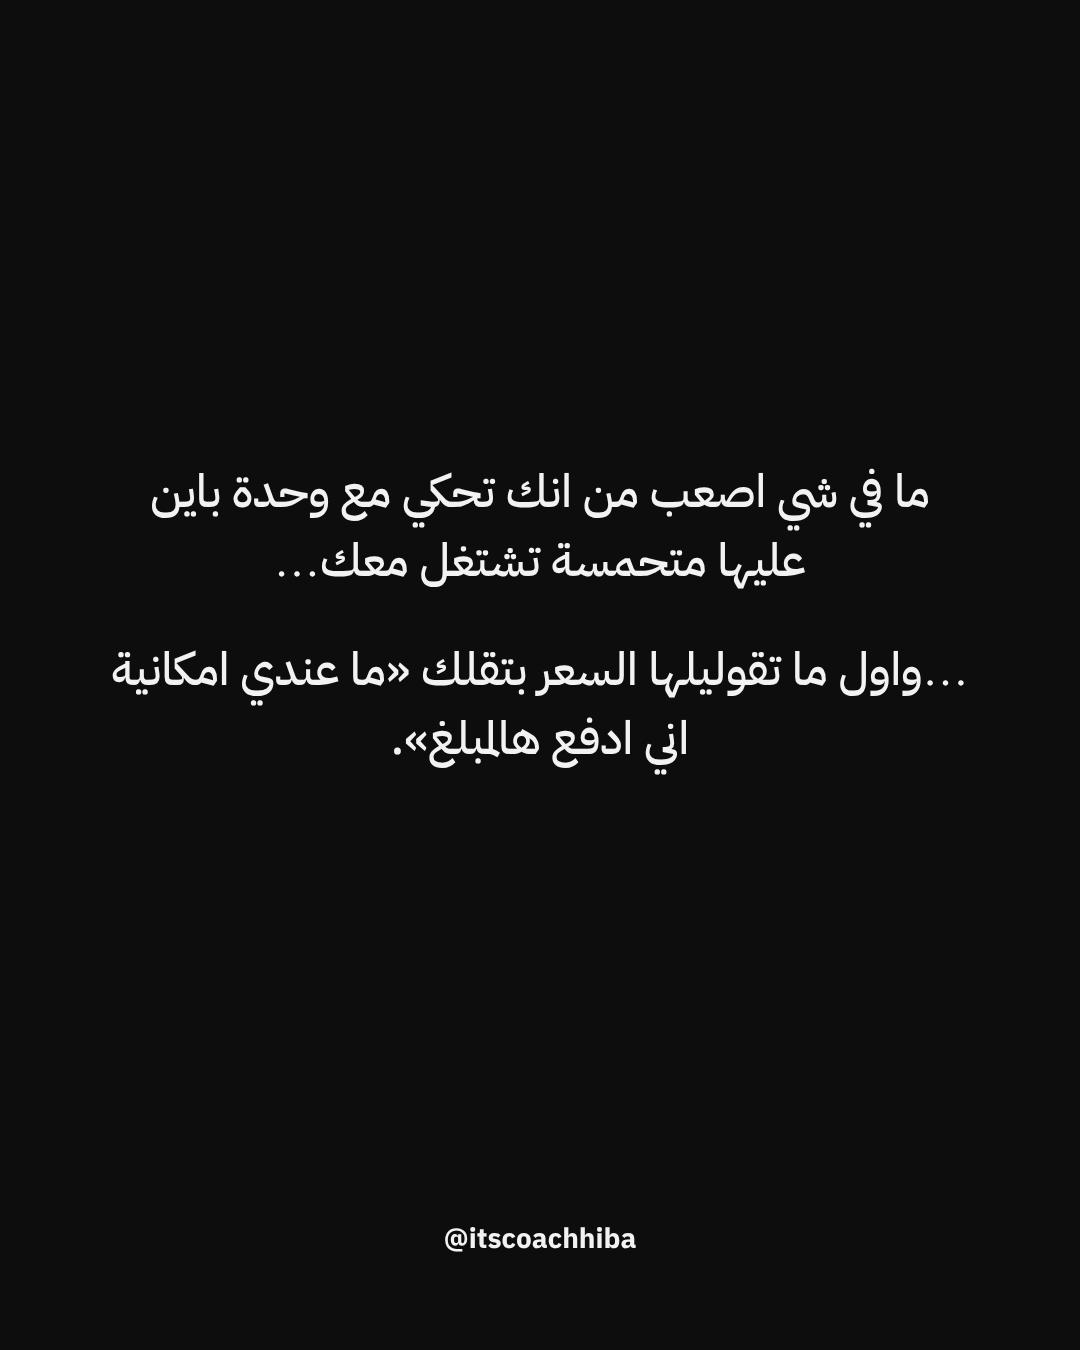
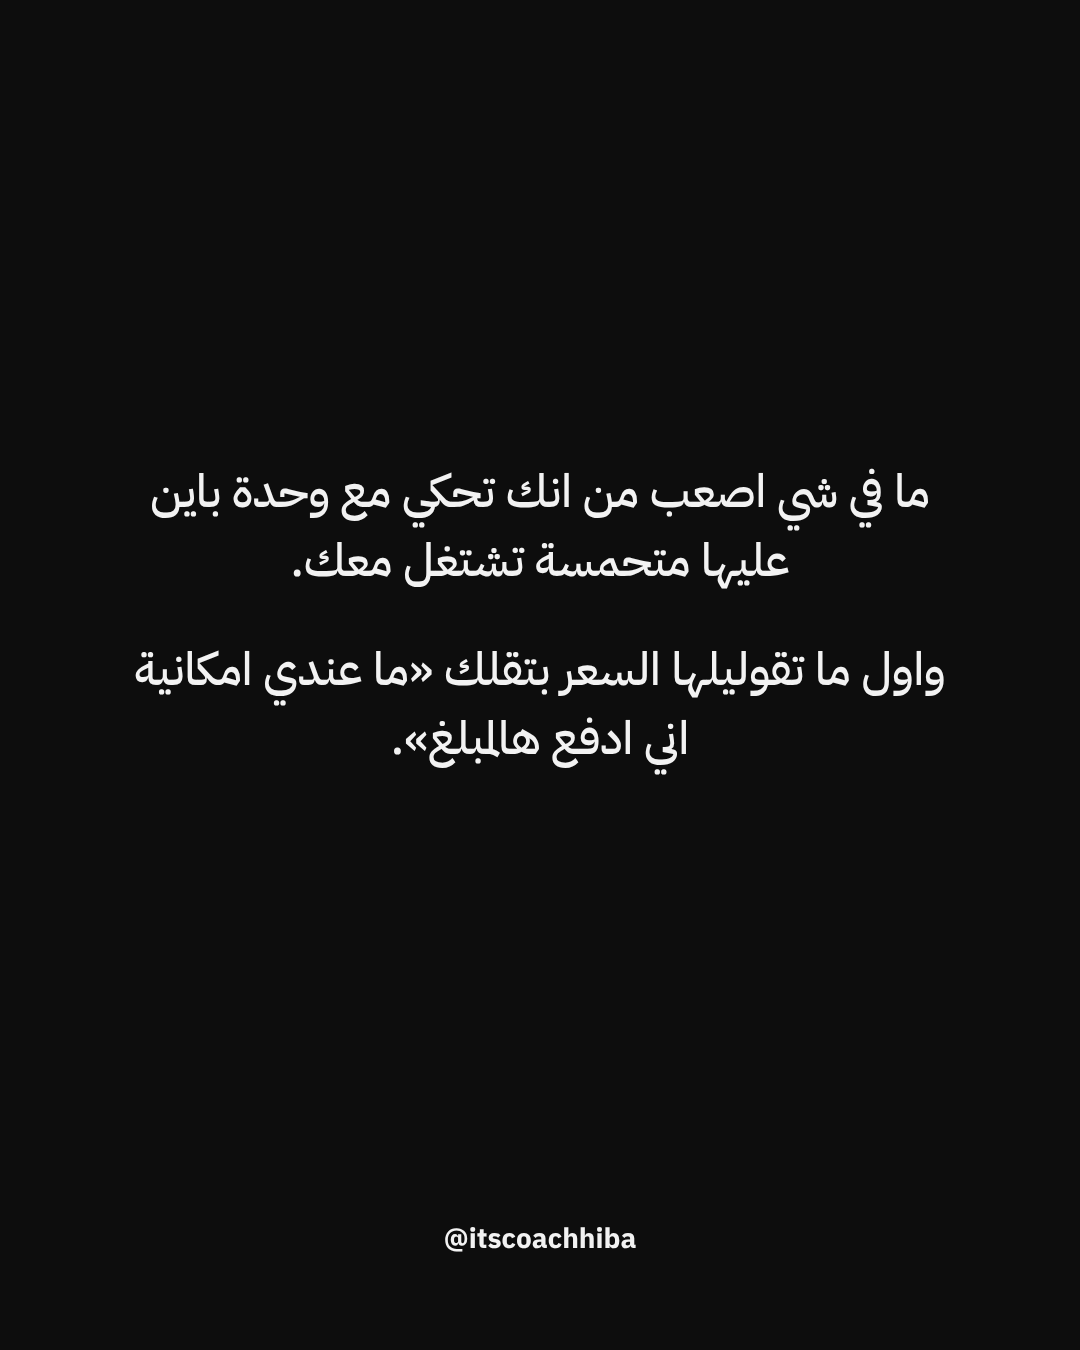
Carousel 20: remove extra dots
Claude-Session: https://claude.ai/code/session_01Q3F4hydPDiJyjfKYRyCC3U

Changed region(s): [[0.0917, 0.4667, 0.8861, 0.5289], [0.275, 0.4044, 0.7639, 0.4356]]

diff --git a/carousels/20-cant-afford-it-messaging/carousel.html b/carousels/20-cant-afford-it-messaging/carousel.html
@@ -12,4 +12,4 @@
 .txt b{font-weight:700}
 .txt em{font-style:normal;color:#F2531E;font-weight:700}
 .h{position:absolute;bottom:90px;left:0;right:0;text-align:center;font-weight:700;font-size:28px;color:#f2f2f2;direction:ltr}</style></head><body><section class="slide cover"><img src="cover.jpg"><div class="shade"></div>
-<h1>ليش العملاء اللي بيجوكي دايما بيقولولك <span>«سعرك غالي عليي»</span>؟</h1></section><section class="slide txt"><div class="box"><p>ما في شي اصعب من انك تحكي مع وحدة باين عليها متحمسة تشتغل معك…</p><p>…واول ما تقوليلها السعر بتقلك «ما عندي امكانية اني ادفع هالمبلغ».</p></div><div class="h">@itscoachhiba</div></section><section class="slide txt"><div class="box"><p>اذا صارت مرة او مرتين… طبيعي.</p><p>بس اذا صارت كل شوي… بتبلشي تقنعي حالك انو لازم تنزلي سعرك.</p><p>بس لاحظتي انك حتى لما بتنزليه… <em>بيضلوا ما يشتروا؟</em></p><p><b>وهاد السبب.</b></p></div><div class="h">@itscoachhiba</div></section><section class="slide txt"><div class="box"><p>انك تجذبي ناس ما بيقدروا يستثمروا مش مشكلة بسعرك.</p><p>هي فعليا مشكلة <em>بالـ messaging</em> تبعك بمحتواكي وببزنسك.</p><p>والرسالة الغلط بتجيبلك العميلات الغلط.</p></div><div class="h">@itscoachhiba</div></section><section class="slide txt"><div class="box"><p>يعني ممكن تكوني عم تعملي محتوى للناس اللي عرضك <em>بيقدر</em> يساعدهم…</p><p>بدل الناس اللي عرضك <em>انعمل الهم</em>.</p><p>والفرق بين الاتنين كبير كتير.</p></div><div class="h">@itscoachhiba</div></section><section class="slide txt"><div class="box"><p>اكيد انتي خبيرة وبتقدري تساعدي ناس كتير بمستويات مختلفة.</p><p>بس اذا عرضك مصمم لوحدة صار عندها بزنس ودخل لازم محتواك يحكي <em>معها هي وبس</em>.</p></div><div class="h">@itscoachhiba</div></section><section class="slide txt"><div class="box"><p>اول ما تفكري «ما بدي خسر حدا»… خسرتي.</p><p>لانو رسالتك بتصير تحكي مع <em>الكل</em>:</p><p>اللي لسا مبلشة. اللي صار عندها خبرة. اللي جاهزة تستثمر. واللي لا.</p></div><div class="h">@itscoachhiba</div></section><section class="slide txt"><div class="box"><p>هاد اللي ما بتنتبهله اغلب الاشخاص اللي عندهم خدمات او منتجات رقمية…</p><p>العميلة اللي بدك ياها مشاكلها واولوياتها واهدافها <em>غير تماما</em> عن وحدة لسا عم تبلش.</p><p>واذا رسالتك ما بتحكي عن <em>واقعها هي</em> رح تضلي تجذبي الناس الغلط.</p></div><div class="h">@itscoachhiba</div></section><section class="slide txt"><div class="box"><p>الرسالة الواضحة والـ messaging الصح هي <em>اول شي</em> لازم تبلشي تغيريه.</p><p>واذا بدك تعرفي كيف بالزبط بتقدري تبني براند شخصي قوي وتزيدي دخلك</p><p>علقي بكلمة <em>«مكالمة»</em> لتحجزي مكالمة استشارية مجانية.</p></div><div class="h">@itscoachhiba</div></section></body></html>
+<h1>ليش العملاء اللي بيجوكي دايما بيقولولك <span>«سعرك غالي عليي»</span>؟</h1></section><section class="slide txt"><div class="box"><p>ما في شي اصعب من انك تحكي مع وحدة باين عليها متحمسة تشتغل معك.</p><p>واول ما تقوليلها السعر بتقلك «ما عندي امكانية اني ادفع هالمبلغ».</p></div><div class="h">@itscoachhiba</div></section><section class="slide txt"><div class="box"><p>اذا صارت مرة او مرتين طبيعي.</p><p>بس اذا صارت كل شوي بتبلشي تقنعي حالك انو لازم تنزلي سعرك.</p><p>بس لاحظتي انك حتى لما بتنزليه <em>بيضلوا ما يشتروا؟</em></p><p><b>وهاد السبب.</b></p></div><div class="h">@itscoachhiba</div></section><section class="slide txt"><div class="box"><p>انك تجذبي ناس ما بيقدروا يستثمروا مش مشكلة بسعرك.</p><p>هي فعليا مشكلة <em>بالـ messaging</em> تبعك بمحتواكي وببزنسك.</p><p>والرسالة الغلط بتجيبلك العميلات الغلط.</p></div><div class="h">@itscoachhiba</div></section><section class="slide txt"><div class="box"><p>يعني ممكن تكوني عم تعملي محتوى للناس اللي عرضك <em>بيقدر</em> يساعدهم.</p><p>بدل الناس اللي عرضك <em>انعمل الهم</em>.</p><p>والفرق بين الاتنين كبير كتير.</p></div><div class="h">@itscoachhiba</div></section><section class="slide txt"><div class="box"><p>اكيد انتي خبيرة وبتقدري تساعدي ناس كتير بمستويات مختلفة.</p><p>بس اذا عرضك مصمم لوحدة صار عندها بزنس ودخل لازم محتواك يحكي <em>معها هي وبس</em>.</p></div><div class="h">@itscoachhiba</div></section><section class="slide txt"><div class="box"><p>اول ما تفكري «ما بدي خسر حدا» خسرتي.</p><p>لانو رسالتك بتصير تحكي مع <em>الكل</em>:</p><p>اللي لسا مبلشة. اللي صار عندها خبرة. اللي جاهزة تستثمر. واللي لا.</p></div><div class="h">@itscoachhiba</div></section><section class="slide txt"><div class="box"><p>هاد اللي ما بتنتبهله اغلب الاشخاص اللي عندهم خدمات او منتجات رقمية.</p><p>العميلة اللي بدك ياها مشاكلها واولوياتها واهدافها <em>غير تماما</em> عن وحدة لسا عم تبلش.</p><p>واذا رسالتك ما بتحكي عن <em>واقعها هي</em> رح تضلي تجذبي الناس الغلط.</p></div><div class="h">@itscoachhiba</div></section><section class="slide txt"><div class="box"><p>الرسالة الواضحة والـ messaging الصح هي <em>اول شي</em> لازم تبلشي تغيريه.</p><p>واذا بدك تعرفي كيف بالزبط بتقدري تبني براند شخصي قوي وتزيدي دخلك</p><p>علقي بكلمة <em>«مكالمة»</em> لتحجزي مكالمة استشارية مجانية.</p></div><div class="h">@itscoachhiba</div></section></body></html>

diff --git a/carousels/20-cant-afford-it-messaging/build.py b/carousels/20-cant-afford-it-messaging/build.py
@@ -33,7 +33,12 @@ slides = [
 import re
 def clean(t):
     t = re.sub("[أإآ]", "ا", t)
-    return t.replace("،", "").replace(", ", " ").replace(",", "")
+    t = t.replace("،", "").replace(", ", " ").replace(",", "")
+    t = re.sub(r"^…", "", t)
+    t = re.sub(r"…(</em>)?$", r".\1", t)
+    t = re.sub(r"…(</em>)?$", r"\1", t)
+    t = re.sub(r"…\s*", " ", t)
+    return re.sub(r"\s+", " ", t).strip()
 slides = [[clean(p) for p in ps] for ps in slides]
 html = ['''<section class="slide cover"><img src="cover.jpg"><div class="shade"></div>
 <h1>ليش العملاء اللي بيجوكي دايما بيقولولك <span>«سعرك غالي عليي»</span>؟</h1></section>''']
